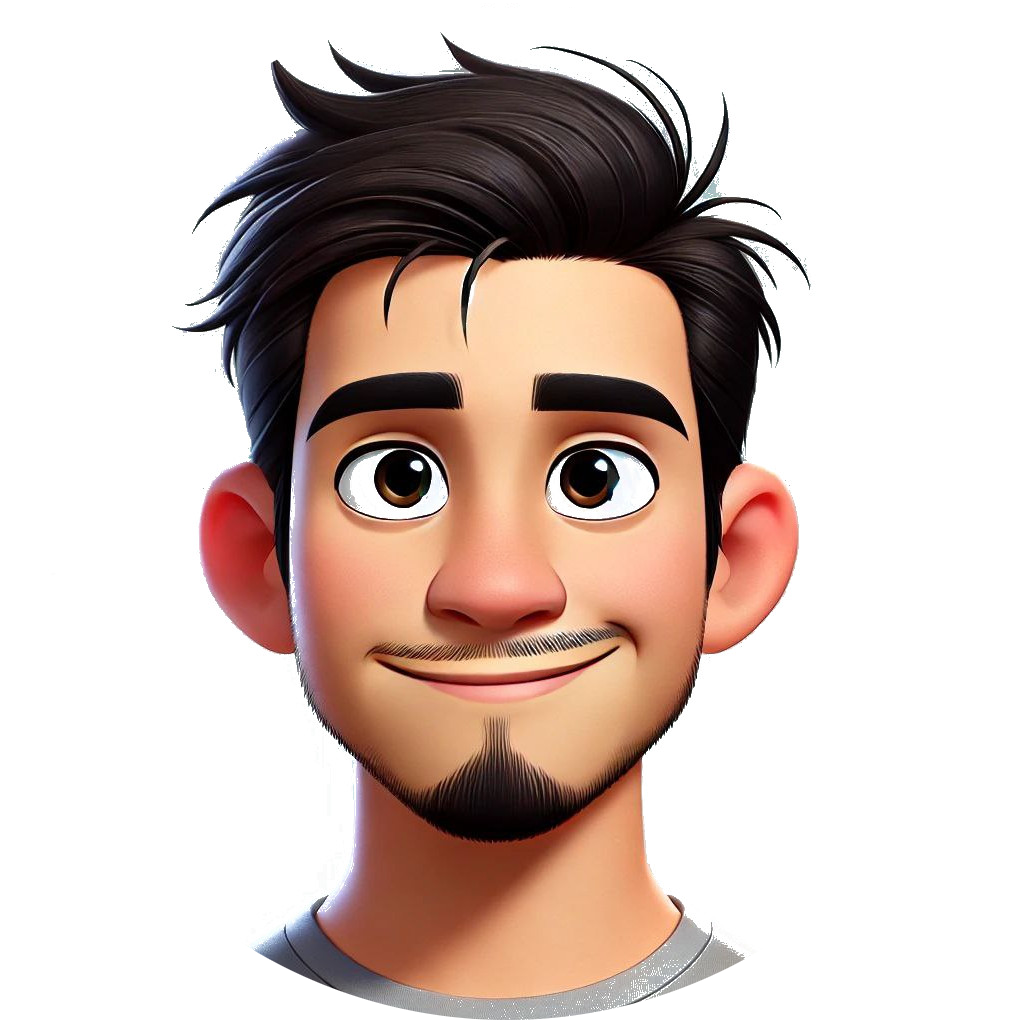
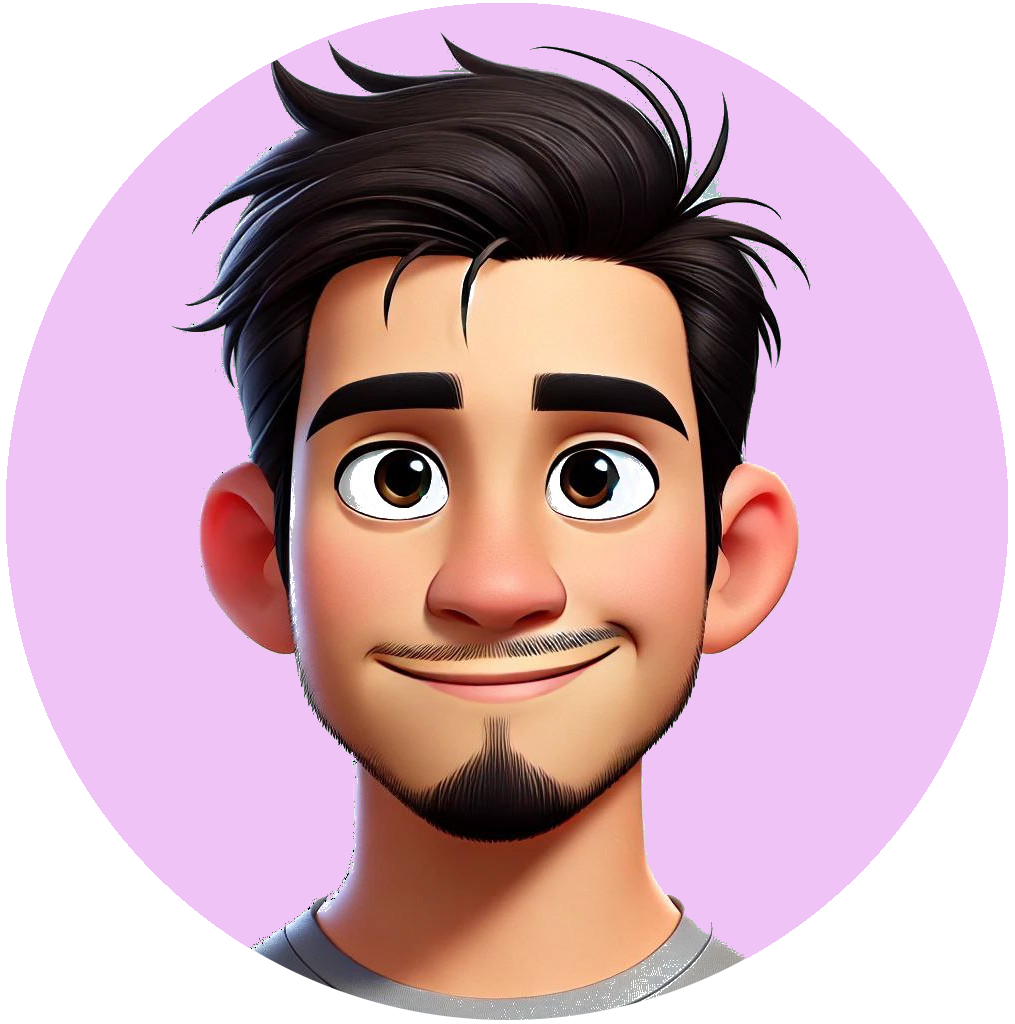
changed profile photo , added pink shadow on the resume button

diff --git a/src/sections/Projects/Projects.jsx b/src/sections/Projects/Projects.jsx
@@ -4,7 +4,7 @@ import ProjectCard from '../../common/ProjectCard'
 import rust from '../../assets/rust.png'
 import quiz from '../../assets/quiz.webp'
 import projectManager from '../../assets/project_manager.jpg'
-import fitlift from '../../assets/fitlift.png'
+import CLang from '../../assets/Clang.png'
 function Projects() {
   return (
     <section id="projects" className={styles.container}>
@@ -22,7 +22,7 @@ function Projects() {
             h3="Project Manager"
             p="A RILT stack project manager"
             />
-            <ProjectCard src={fitlift} link="https://github.com/NabilKara/GUI_Meth_Acces_Fichiers"
+            <ProjectCard src={CLang} link="https://github.com/NabilKara/GUI_Meth_Acces_Fichiers"
             h3="Files Access Methods"
             p="Used C and SDL to visualize the T¬OV with overlap files structure"
             />

diff --git a/src/sections/Hero/HeroStyles.module.css b/src/sections/Hero/HeroStyles.module.css
@@ -45,7 +45,9 @@
   
     button:hover {
       transform: scale(1.05);
+      box-shadow: 0 4px 8px rgba(255, 105, 180, 0.6);
     }
+    
   
     button:active {
       transform: translateY(2px);
